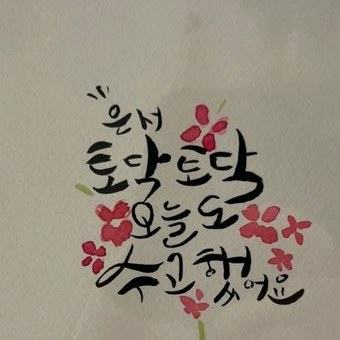
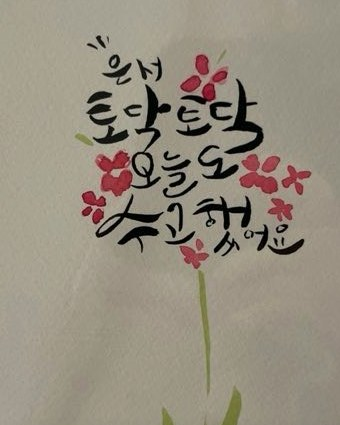
은서작가: 캘리그라피 사진 교체 (부스 현장·꽃 문구 카드)
Claude-Session: https://claude.ai/code/session_016SxUknQaX3HwQww9UgzRrf

diff --git a/eunseo/index.html b/eunseo/index.html
@@ -272,7 +272,7 @@ body.menu-open{overflow:hidden}
 /* CALLIGRAPHY */
 .calli{display:grid;grid-template-columns:minmax(0,1fr) minmax(0,1.05fr);gap:56px;align-items:center}
 .calli-board{display:grid;grid-template-columns:repeat(2,minmax(0,1fr));gap:12px}
-.slot{position:relative;border-radius:16px;overflow:hidden;aspect-ratio:1/1;background:repeating-linear-gradient(135deg,#f6f7f5 0 14px,#eff1ee 14px 28px);border:1.5px dashed #c9ccc7;display:grid;place-content:center;justify-items:center;gap:8px;color:var(--dim);font-size:13.5px;font-weight:700;text-align:center;padding:12px}
+.slot{position:relative;border-radius:16px;overflow:hidden;aspect-ratio:4/5;background:repeating-linear-gradient(135deg,#f6f7f5 0 14px,#eff1ee 14px 28px);border:1.5px dashed #c9ccc7;display:grid;place-content:center;justify-items:center;gap:8px;color:var(--dim);font-size:13.5px;font-weight:700;text-align:center;padding:12px}
 .slot.big{grid-column:1/-1;aspect-ratio:3/2}
 .slot.filled{border:0;background:var(--surface);margin:0;box-shadow:0 1px 2px rgba(20,30,20,.06),0 10px 26px rgba(20,30,20,.12)}
 .slot figcaption{position:absolute;left:10px;bottom:10px;padding:5px 11px;border-radius:var(--r-pill);background:rgba(18,18,18,.72);color:#fff;font-size:12.5px;font-weight:700;backdrop-filter:blur(6px)}
@@ -562,7 +562,7 @@ footer .wrap{display:flex;flex-wrap:wrap;justify-content:space-between;gap:12px}
       <div class="calli-board" aria-label="캘리그라피 작품 사진">
         <figure class="slot big filled"><img src="img/calli-stones.jpg" alt="꽃 그림과 캘리그라피 문구를 그린 흙 소품들" loading="lazy"><figcaption>손글씨 소품</figcaption></figure>
         <figure class="slot filled"><img src="img/calli-card.jpg" alt="토닥토닥 오늘도 수고했어요 캘리그라피 카드" loading="lazy"><figcaption>이름 넣은 문구 카드</figcaption></figure>
-        <figure class="slot filled"><img src="img/calli-event.jpg" alt="행사장 부스에서 캘리그라피를 쓰는 은서작가" loading="lazy"><figcaption>행사 현장</figcaption></figure>
+        <figure class="slot filled"><img src="img/calli-event.jpg" alt="행사장 부스에서 완성한 캘리그라피 카드를 들어 보이는 은서작가" loading="lazy"><figcaption>행사 현장</figcaption></figure>
       </div>
     </div>
   </section>
